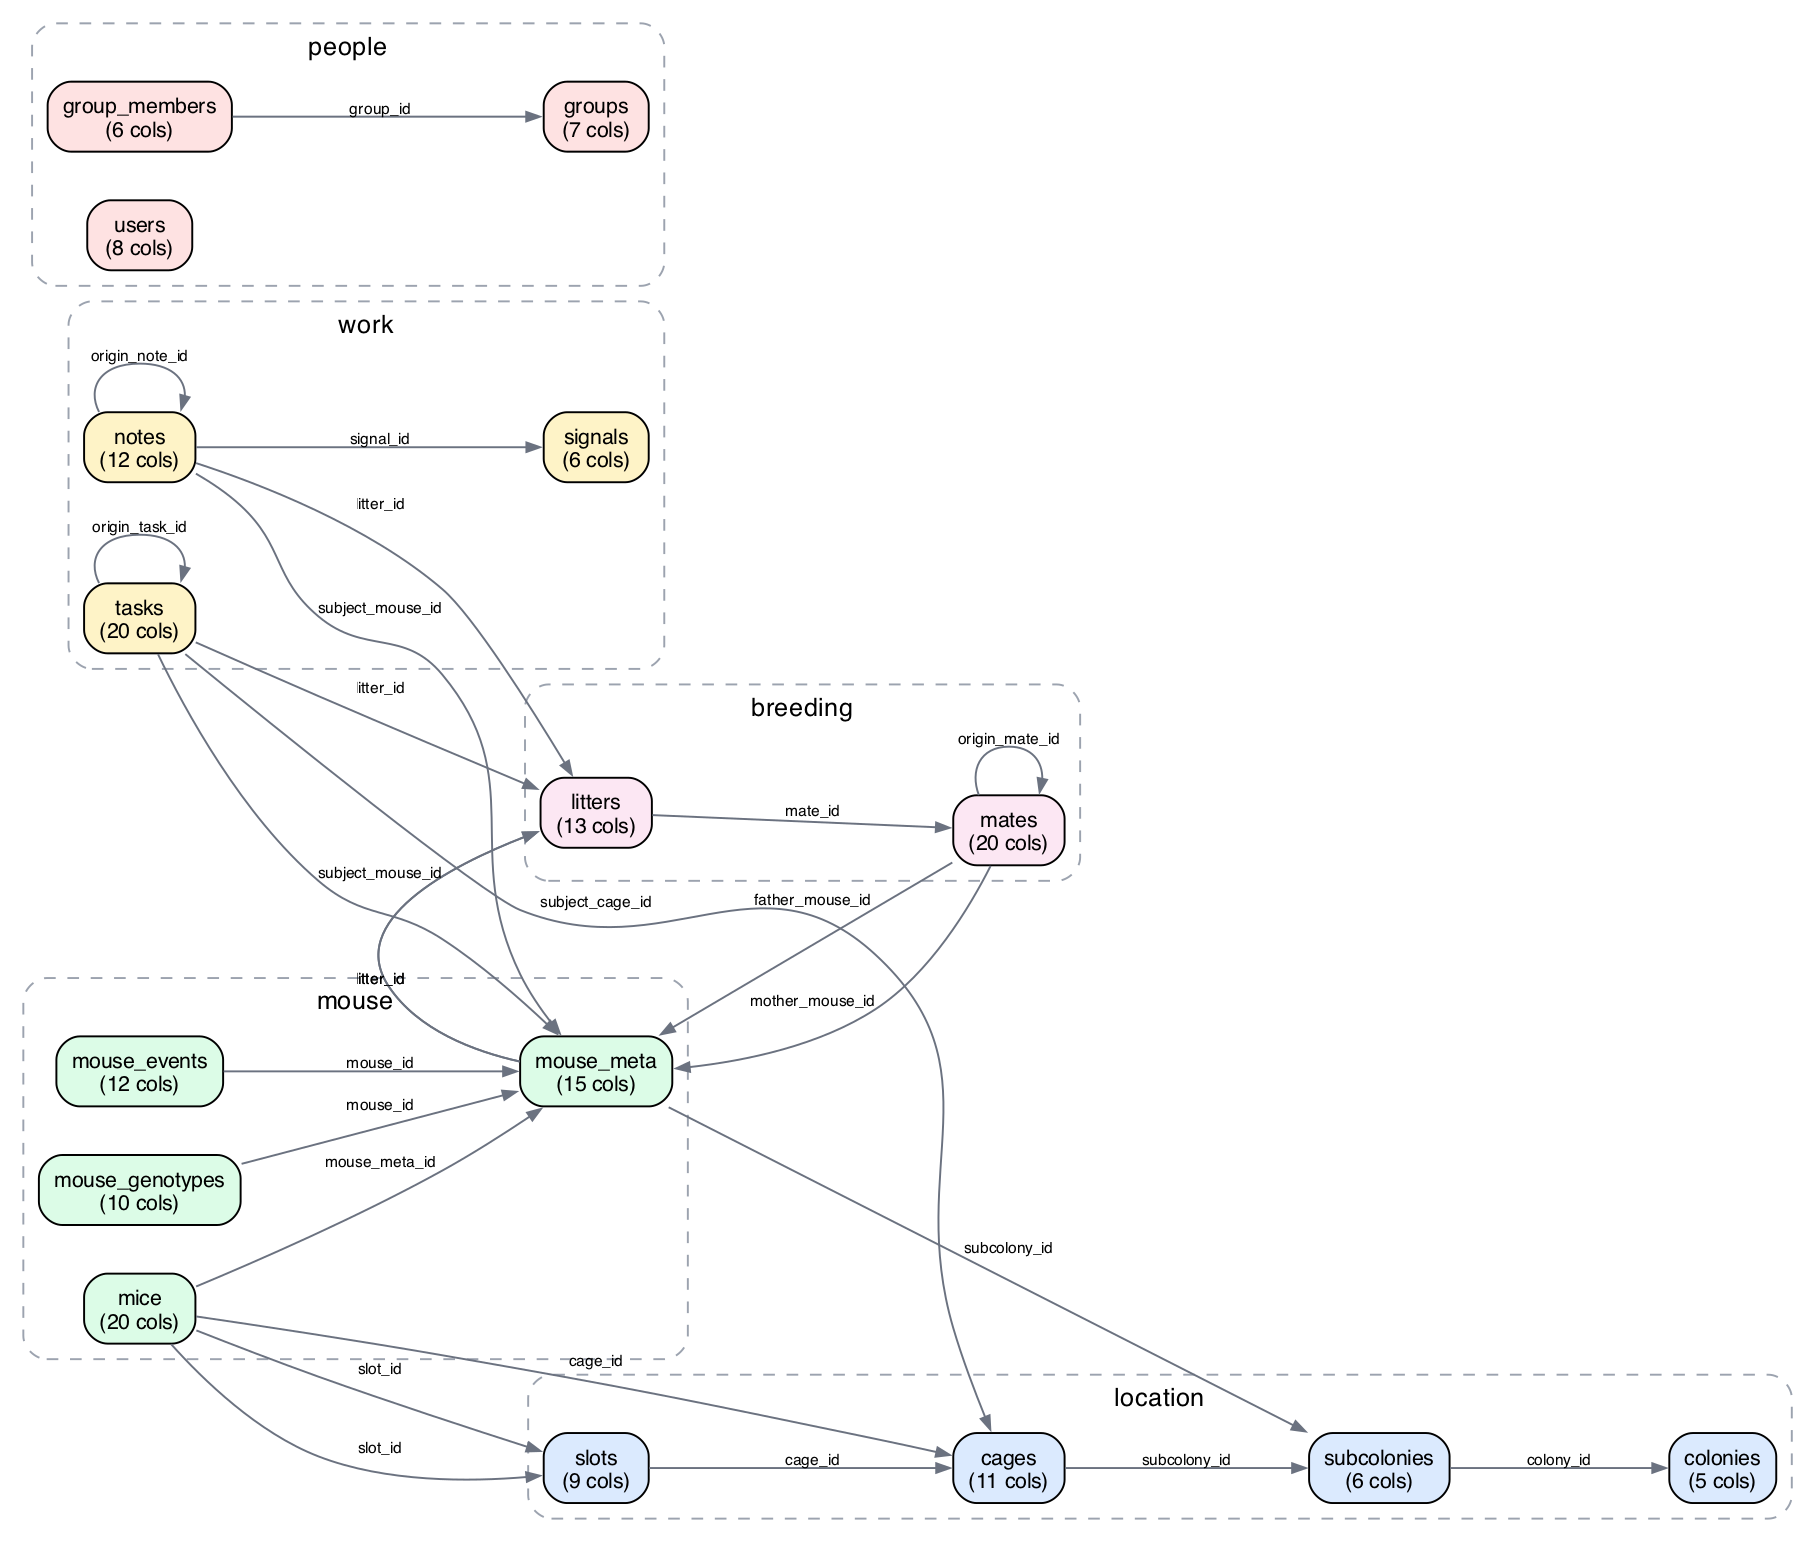
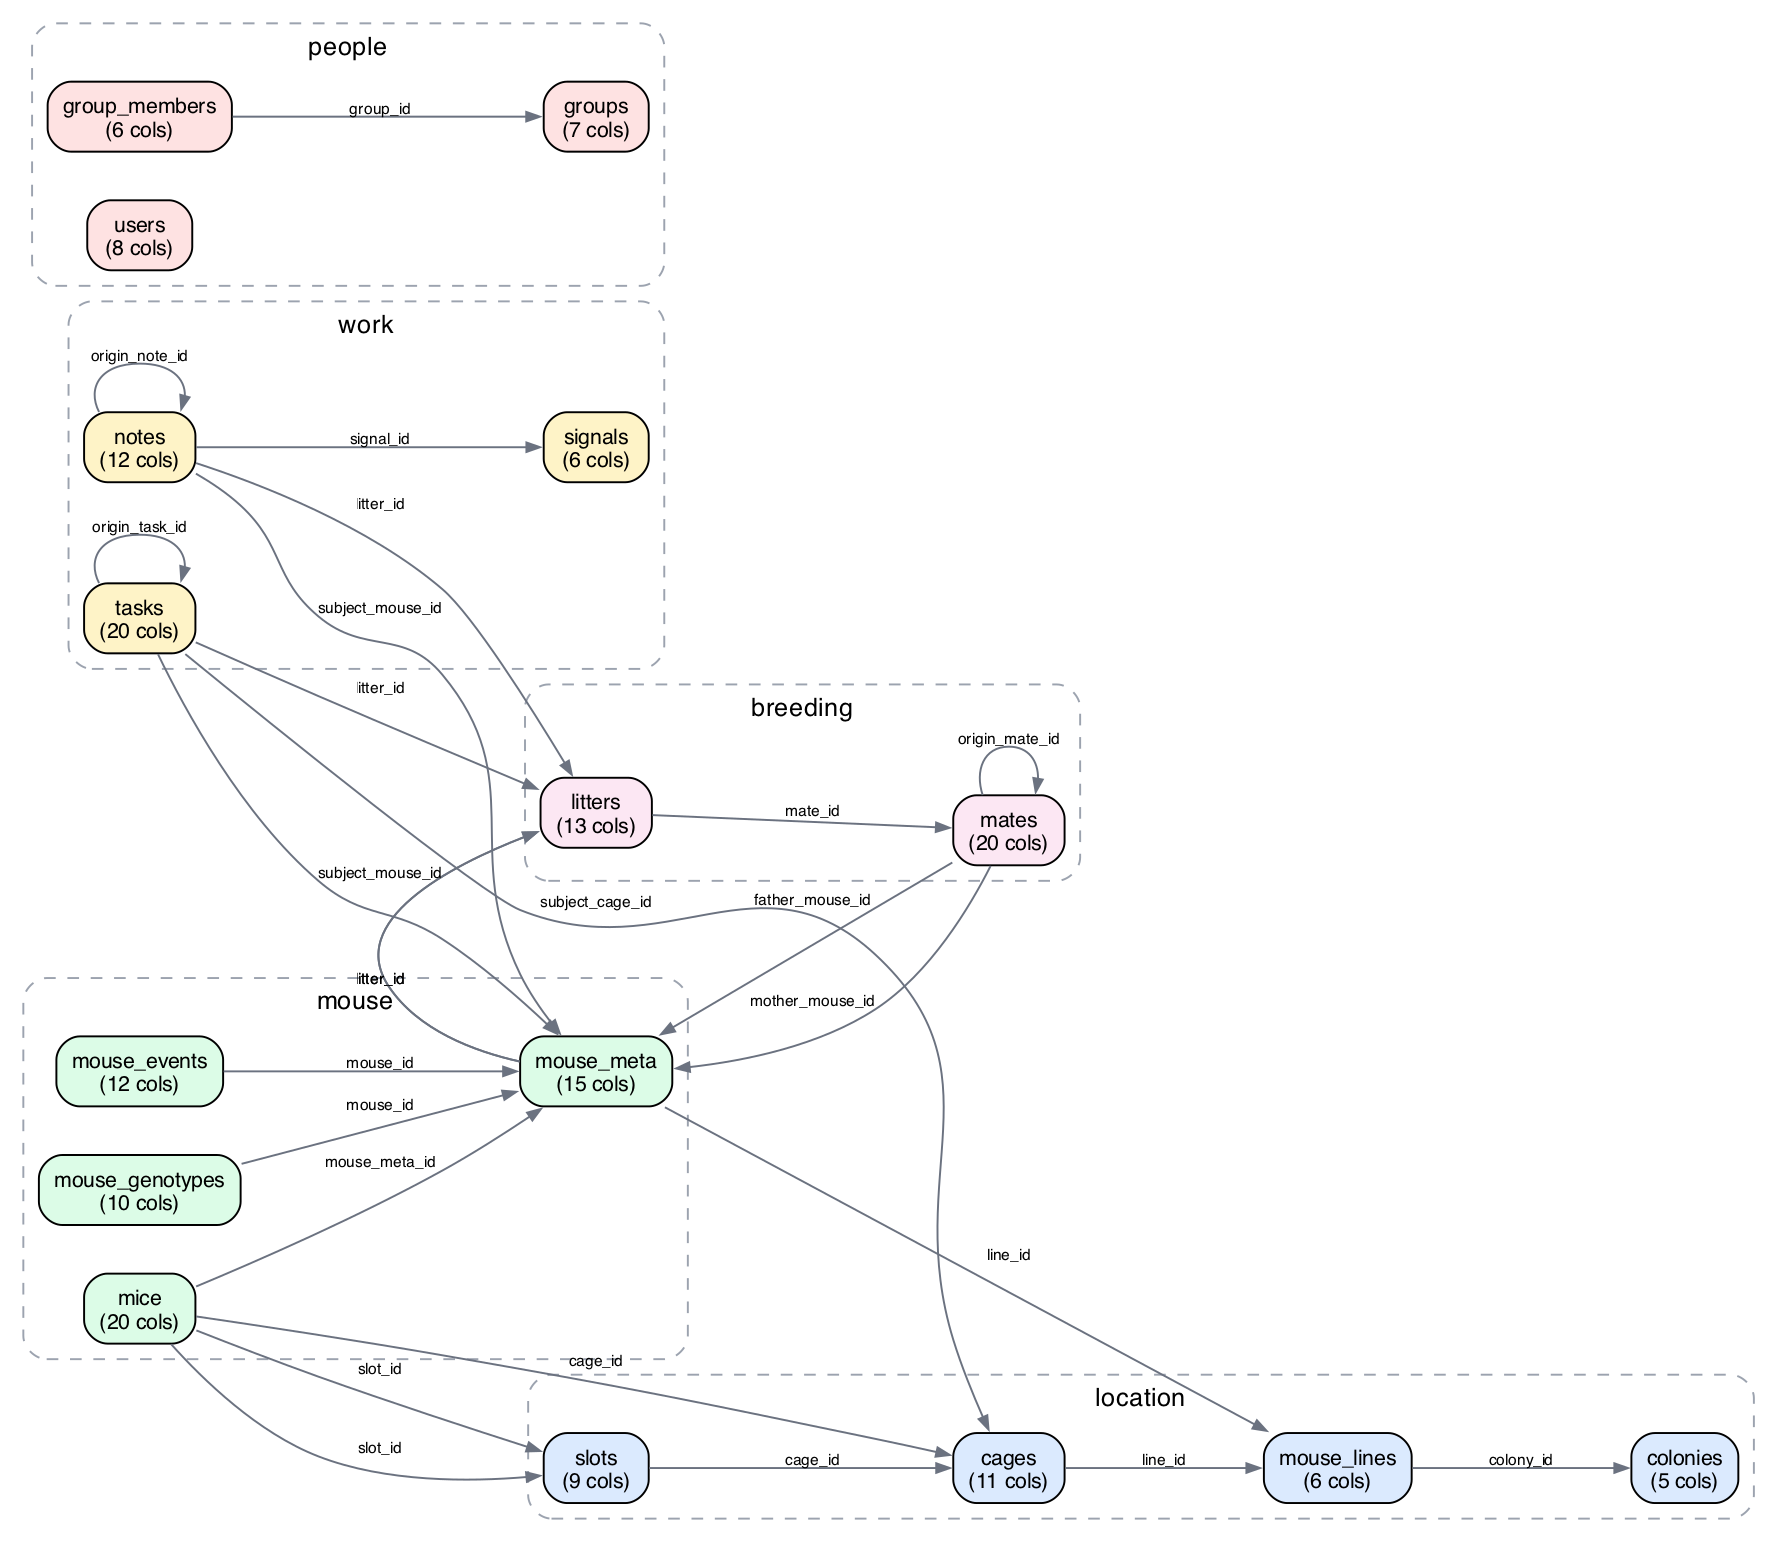
db: rename subcolonies to mouse_lines
R19 established that a colony's subdivision is a mouse line; this makes the name
match, with subcolony_id becoming line_id on cages and mouse_meta.

Drops the unique (id, colony_id) that went with it: it existed only as the
target of a composite FK pinning a mouse to its litter's line, and that guard
was removed when a mouse was allowed to move between lines.

diff --git a/00.plan.md b/00.plan.md
@@ -6,7 +6,7 @@
 ## 1. Product intent
 
 Dr. Lopez-Juarez spends **5–10 hrs/week** hand-versioning Excel files that track his
-mouse colony (Colony → subcolony → cages → slots → mice). Rhythm today:
+mouse colony (Colony → mouse line → cages → slots → mice). Rhythm today:
 
 - **Weekday:** lab staff read the latest generated Excel, do the work, produce a new
   versioned Excel by hand.
@@ -295,7 +295,7 @@ enforced at DB level.
   (append-only invariant), so fold-on-read reconstruction is deferred, not
   required.
 - Schema refinements (architect-validated, 2026-09-04):
-  - **R1 slot entity (rev. 2026-09-04):** hierarchy colony > subcolony > cage >
+  - **R1 slot entity (rev. 2026-09-04):** hierarchy colony > mouse line > cage >
     slot > mouse. New `slot(id, cage_id FK, label UNIQUE GLOBAL, deleted_at)` —
     global-unique label ADOPTED (Q19 resolved; verify physical oddity at first
     real import — SUPERSEDED by R10: Q19 EMPIRICALLY FALSIFIED, label is now
@@ -377,7 +377,7 @@ enforced at DB level.
     columns and FKs stay SINGULAR (`cages` table ⟷ `cage_id` column — never
     `cages_id`). Authoritative map, and the ONLY source the migrations are
     written from: `mice`, `litters`, `cages`, `slots`, `tasks`, `colonies`,
-    `subcolonies`, `users`, `mouse_lines`, `mouse_moves`, `mouse_attr_logs`,
+    `mouse_lines`, `users`, `mouse_lines`, `mouse_moves`, `mouse_attr_logs`,
     `audit_logs`, `import_batches`, `import_errors`, `raw_sheet_rows`,
     `color_maps`, `transfers`, `snapshots`,
     `markers`, `line_marker_panels`, `genotyping_runs`, `genotyping_results`,
@@ -832,7 +832,7 @@ four tables, and mouse identity is split from mouse state.
 - **`pups`** — one pup slot within a litter, `UNIQUE (litter_id, pup_number)`.
   `mouse_meta.pup_id` links a grown mouse back to its pup slot (`UNIQUE`).
 
-`colonies → subcolonies → cages → slots` are unchanged. Chain is CIRCULAR
+`colonies → mouse_lines → cages → slots` are unchanged. Chain is CIRCULAR
 (mates → mouse_meta → pups → litters → mates), broken by CREATE-then-ALTER at
 the bottom of 0002 — never by relaxing FK enforcement.
 
@@ -1048,15 +1048,15 @@ what a role on the group would have invited.
 VERIFIED 2026-09-05: a group inserted with a role REJECTED; a person inserted
 without a role REJECTED; a group row shows role NULL.
 
-### R19 — a subcolony IS a mouse line (2026-09-05, user)
+### R19 — a mouse line IS a mouse line (2026-09-05, user)
 
-`mouse_lines` is GONE: it was the same entity as `subcolonies` under another
+`mouse_lines` is GONE: it was the same entity as `mouse_lines` under another
 name. **One workbook = one colony**, and its column-B "Mouse line" values are
-that colony's subcolonies:
+that colony's mouse_lines:
 
 ```
 colonies   MouseRoomSheet-260823-ALJ
-  subcolonies   nNf1 flox;ccEGFP (85 mice) · pHRasG12V;ccEGFP (42) ·
+  mouse_lines   nNf1 flox;ccEGFP (85 mice) · pHRasG12V;ccEGFP (42) ·
                 nHRasG12V;ccEGFP (30) · WTs (29) · Nf1+/- (15) ·
                 Myrf (14) · pNf1 flox;ccEGFP (10)
     cages   2477, 2389, ...
@@ -1064,40 +1064,40 @@ colonies   MouseRoomSheet-260823-ALJ
 ```
 
 MEASURED before merging: all 62 Breeders cages belong to exactly ONE line, none
-spans two — so `cages.subcolony_id` is correct and the hierarchy is real, not
+spans two — so `cages.line_id` is correct and the hierarchy is real, not
 imposed.
 
-- `mouse_meta.line_id` → `mouse_meta.subcolony_id`. **`litters` carries NO
-  subcolony** (amended 2026-09-05, user): the programme is reachable via
-  `mate_id -> mates.subcolony_id`. See R20.
+- `mouse_meta.line_id` → `mouse_meta.line_id`. **`litters` carries NO
+  mouse line** (amended 2026-09-05, user): the programme is reachable via
+  `mate_id -> mates.line_id`. See R20.
 - **A mouse MAY belong to a different programme than its litter** (decided
   2026-09-05, user): pups get moved into another line's programme, so the two
   legitimately diverge. A composite guard was briefly added and then REMOVED —
   do not re-add it.
-    - `mouse_meta.subcolony_id` = the programme this MOUSE is in NOW.
-    - `litters.subcolony_id` = the programme the LITTER was bred under.
-  Both keep a plain FK to `subcolonies`, so neither can name a programme that
+    - `mouse_meta.line_id` = the programme this MOUSE is in NOW.
+    - `litters.line_id` = the programme the LITTER was bred under.
+  Both keep a plain FK to `mouse_lines`, so neither can name a programme that
   does not exist. This is the one litters/mouse_meta overlap left unpinned, and
   the asymmetry is intentional: `litter_code` IS pinned (a mouse cannot rename
-  its own litter), subcolony is not (a mouse can be reassigned).
-- `subcolonies UNIQUE (colony_id, name)`: a line name is unique within its
+  its own litter), mouse line is not (a mouse can be reassigned).
+- `mouse_lines UNIQUE (colony_id, name)`: a line name is unique within its
   colony, not globally, so two workbooks can each have a 'WTs'.
 
-NOT to be confused with `mouse_genotypes`: the subcolony is the professor's
+NOT to be confused with `mouse_genotypes`: the mouse line is the professor's
 ORGANISATIONAL unit (why this mouse is kept, 7 values), the genotype is what the
 individual actually is (50+ values). One line contains mice of several
 genotypes, because that is what its crosses produce — the line cannot be derived
 from the genotype.
 
-VERIFIED 2026-09-05: colony → subcolony → cage chain built; a mouse claiming a
-different subcolony from its litter REJECTED; a duplicate line name within one
+VERIFIED 2026-09-05: colony → mouse line → cage chain built; a mouse claiming a
+different mouse line from its litter REJECTED; a duplicate line name within one
 colony REJECTED.
 
-### R20 — the pairing carries subcolony and cage (2026-09-05, user)
+### R20 — the pairing carries mouse line and cage (2026-09-05, user)
 > **REVERSED the same day (R21): both are derivable from the parents and were
 > removed again. Read R21.**
 
-`mates` gains `subcolony_id` and `cage_id`; `litters.subcolony_id` is REMOVED.
+`mates` gains `line_id` and `cage_id`; `litters.line_id` is REMOVED.
 
 **Why cage_id is right here and was wrong before.** An earlier revision dropped
 `cage_id` from the breeding table on the grounds that the WORKBOOK has no
@@ -1107,14 +1107,14 @@ the app creates pairings, and the professor picks a cage at that moment. The
 value exists; it simply did not exist in the spreadsheet.
 
 **Why litters loses its copy.** With the programme on `mates`, a litter reaches
-it through `mate_id -> mates.subcolony_id`. Storing it again on `litters` is the
+it through `mate_id -> mates.line_id`. Storing it again on `litters` is the
 same derivable-duplicate the rest of this schema has been removing.
 
 ACCEPTED LOSS, stated so it is not discovered later as a bug: a litter with
 `mate_id` NULL — historical rows whose parents are unknown, and the
 `is_from_outside` shells — has NO programme of its own. Verified: such litters
 report "(none)" while the mice inside them still carry
-`mouse_meta.subcolony_id`, so the information is not destroyed, only unreachable
+`mouse_meta.line_id`, so the information is not destroyed, only unreachable
 from the litter row.
 
 A `mates` row is one couple pointing at TWO `mouse_meta` rows (mother, father) —
@@ -1123,13 +1123,13 @@ not two rows per pairing.
 VERIFIED 2026-09-05: a pairing recorded with both parents, programme and cage; a
 litter resolving its programme and mating cage through `mate_id`; mate-less
 litters showing no programme while their mice keep theirs;
-`litters.subcolony_id` confirmed gone.
+`litters.line_id` confirmed gone.
 
 ### R21 — derive the pairing's programme and cage; `mice.effective_at` (2026-09-05, user)
 
-Reverses R20. `mates` carries NEITHER `subcolony_id` NOR `cage_id`.
+Reverses R20. `mates` carries NEITHER `line_id` NOR `cage_id`.
 
-- **PROGRAMME** = `mouse_meta.subcolony_id` of either parent. Unambiguous:
+- **PROGRAMME** = `mouse_meta.line_id` of either parent. Unambiguous:
   measured on Breeders, all 39 resolvable pairs mate WITHIN one line and **0
   cross lines**, so mother and father never disagree.
 - **CAGE AT PAIRING TIME** = the parent's `mice` version that was current then.
@@ -1219,7 +1219,7 @@ transaction-start time). `is_occurred_at_approx` carries the workbook's `~`
 (no copulatory plug seen, so the date is estimated).
 
 **Co-housing is VERIFIED, NOT CONSTRAINED.** Once cohoused — and still at
-delivery — both parents' current `mice` rows share subcolony, cage and slot.
+delivery — both parents' current `mice` rows share mouse line, cage and slot.
 Checking that compares head-of-history rows across two mice, which a CHECK
 cannot express and a trigger could only reject silently; the service runs the
 query and can name the parent in the wrong cage. Query in
@@ -1232,7 +1232,7 @@ referential ones live in the schema.
 VERIFIED 2026-09-05 by walking the whole flow: seven transitions recorded
 INCLUDING a reversal (pregnant → awaiting → pregnant) with each actor and note
 preserved; current status resolving to the newest row; an invalid status
-rejected; both parents sharing one cage/slot/subcolony at co-housing and again
+rejected; both parents sharing one cage/slot/mouse line at co-housing and again
 at delivery; and the same couple re-mating into a second `mates` + `litters`
 pair while the first cycle kept its own history.
 
@@ -1271,3 +1271,29 @@ This is the fourth rule of this shape, alongside group eligibility, the
 unplaced-mouse rule and co-housing verification: cross-row and intent-dependent
 conditions live in the service; single-row and referential ones live in the
 schema.
+
+### R24 — the colony subdivision is named `mouse_lines` (2026-09-05, user)
+
+`subcolonies` is RENAMED to `mouse_lines`, and `subcolony_id` to `line_id`
+everywhere (`cages`, `mouse_meta`). The entity is unchanged — R19 established
+that a colony's subdivision IS a mouse line — this is naming only, using the
+professor's own word rather than an invented hierarchy term:
+
+```
+colonies      MouseRoomSheet-260823-ALJ
+  mouse_lines   nNf1 flox;ccEGFP · pHRasG12V;ccEGFP · WTs · Myrf · ...
+    cages         2477, 2389, ...
+      slots
+```
+
+Also DROPPED: `subcolonies UNIQUE (id, colony_id)`. It existed only to be the
+target of a composite FK pinning a mouse to its litter's line, and that guard
+was removed when a mouse was allowed to belong to a different line than its
+birth litter. Nothing referenced it any more.
+
+`mouse_lines UNIQUE (colony_id, name)` stays: a line name is unique within its
+colony, not globally, so two workbooks can each have a 'WTs'.
+
+VERIFIED 2026-09-05: schema rebuilt from empty; `cages.line_id` and
+`mouse_meta.line_id` are the only FKs into it; all three scenario files re-run
+with only their intended rejections.

diff --git a/packages/db/SCHEMA.md b/packages/db/SCHEMA.md
@@ -30,7 +30,7 @@ CREATE UNIQUE INDEX audit_logs_pkey ON public.audit_logs USING btree (id)
 | column | type | null | default | references |
 |---|---|---|---|---|
 | `id` | bigint | NOT NULL |  |  |
-| `subcolony_id` | bigint | NOT NULL |  | → `subcolonies` |
+| `line_id` | bigint | NOT NULL |  | → `mouse_lines` |
 | `cage_number` | text | NOT NULL |  |  |
 | `location` | text |  |  |  |
 | `status` | text |  |  |  |
@@ -292,6 +292,22 @@ CREATE UNIQUE INDEX mouse_genotypes_order_key ON public.mouse_genotypes USING bt
 CREATE UNIQUE INDEX mouse_genotypes_pkey ON public.mouse_genotypes USING btree (id)
 ```
 
+## `mouse_lines`
+
+| column | type | null | default | references |
+|---|---|---|---|---|
+| `id` | bigint | NOT NULL |  |  |
+| `colony_id` | bigint | NOT NULL |  | → `colonies` |
+| `name` | text | NOT NULL |  |  |
+| `created_at` | timestamp with time zone | NOT NULL | `now()` |  |
+| `updated_at` | timestamp with time zone | NOT NULL | `now()` |  |
+| `deleted_at` | timestamp with time zone |  |  |  |
+
+```sql
+CREATE UNIQUE INDEX mouse_lines_colony_name_key ON public.mouse_lines USING btree (colony_id, name) WHERE (deleted_at IS NULL)
+CREATE UNIQUE INDEX mouse_lines_pkey ON public.mouse_lines USING btree (id)
+```
+
 ## `mouse_meta`
 
 | column | type | null | default | references |
@@ -301,7 +317,7 @@ CREATE UNIQUE INDEX mouse_genotypes_pkey ON public.mouse_genotypes USING btree (
 | `litter_code` | text | NOT NULL |  | → `litters` |
 | `pup_number` | integer | NOT NULL |  |  |
 | `dob` | date |  |  |  |
-| `subcolony_id` | bigint |  |  | → `subcolonies` |
+| `line_id` | bigint |  |  | → `mouse_lines` |
 | `raw_mouse_id` | text |  |  |  |
 | `raw_genotype` | text |  |  |  |
 | `raw_parents` | text |  |  |  |
@@ -392,23 +408,6 @@ CREATE UNIQUE INDEX signals_type_key ON public.signals USING btree (type) WHERE 
 CREATE UNIQUE INDEX slots_cage_label_key ON public.slots USING btree (cage_id, label) WHERE (deleted_at IS NULL)
 CREATE UNIQUE INDEX slots_id_cage_key ON public.slots USING btree (id, cage_id)
 CREATE UNIQUE INDEX slots_pkey ON public.slots USING btree (id)
-```
-
-## `subcolonies`
-
-| column | type | null | default | references |
-|---|---|---|---|---|
-| `id` | bigint | NOT NULL |  |  |
-| `colony_id` | bigint | NOT NULL |  | → `colonies` |
-| `name` | text | NOT NULL |  |  |
-| `created_at` | timestamp with time zone | NOT NULL | `now()` |  |
-| `updated_at` | timestamp with time zone | NOT NULL | `now()` |  |
-| `deleted_at` | timestamp with time zone |  |  |  |
-
-```sql
-CREATE UNIQUE INDEX subcolonies_colony_name_key ON public.subcolonies USING btree (colony_id, name) WHERE (deleted_at IS NULL)
-CREATE UNIQUE INDEX subcolonies_id_colony_key ON public.subcolonies USING btree (id, colony_id)
-CREATE UNIQUE INDEX subcolonies_pkey ON public.subcolonies USING btree (id)
 ```
 
 ## `tasks`

diff --git a/01.status.md b/01.status.md
@@ -86,3 +86,4 @@
 2026-09-05 RISK FOUND: append writes that insert a PARTIAL row silently destroy omitted state — recording a death without carrying cage_id/sex leaves them NULL and the mouse vanishes from its cage. No constraint can catch it (NULL cage is also the legitimate "unplaced" value). Recorded as a P0.6 task; scenarios rewritten to demonstrate wrong vs right
 2026-09-05 RISK confirmed on ALL FOUR versioned tables (not just mice): a partial append INSERT silently destroys omitted columns — tasks lost assigned_to+subject_cage on 'done', mates lost both parents on 'pregnant', notes lost litter_id on edit. Verified in flow-probes PROBE 1/6/7/8 with wrong and right forms side by side
 2026-09-05 decision R23 (user): handled in BUSINESS LOGIC via an appendVersion(table, logicalId, changes, actor) repository helper that copies the head row forward — no schema constraint can distinguish an omitted NULL from an intended one (unplaced mouse, unassigned task)
+2026-09-05 schema R24: subcolonies RENAMED mouse_lines, subcolony_id -> line_id (cages, mouse_meta) — naming only, the entity was already the mouse line per R19; dead UNIQUE (id, colony_id) dropped with it (its composite FK was removed earlier)

diff --git a/00.tasks.md b/00.tasks.md
@@ -326,7 +326,7 @@ mouse_meta behind a composite FK. **Structure is NOT restated in this doc —
       mutation controls.
 - [ ] Search/filter: by composed label (sex||pup_number||litter_code, via
       mouse_current_attrs — labels repeat, result may be multi-row),
-      mouse line (via subcolony_id FK → subcolonies, R19), cage_number, sex,
+      mouse line (via line_id FK → mouse_lines, R19), cage_number, sex,
       status, attention.
       AC: each filter returns exactly the matching seed rows; line filter
       matches on mouse_line.name through the FK; a repeated label returns all

diff --git a/packages/db/scenarios/README.md b/packages/db/scenarios/README.md
@@ -92,7 +92,7 @@ WHERE m.id = $1;
 Each stage has its own timestamp (`cohoused_at`, `awaiting_at`, `pregnant_at`,
 `delivered_at`) and `status` is GENERATED from them, so the two cannot diverge.
 
-Verified: both parents share one cage/slot/subcolony after co-housing AND still
+Verified: both parents share one cage/slot/mouse line after co-housing AND still
 at delivery; all five transitions present in `audit_logs` with the right actor;
 writing `status` directly REJECTED (generated column); clearing `delivered_at`
 walking the status back to `pregnant`.
